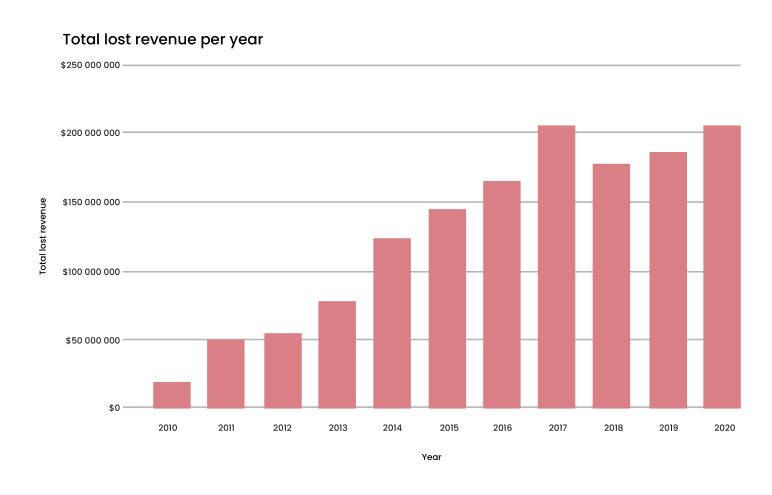
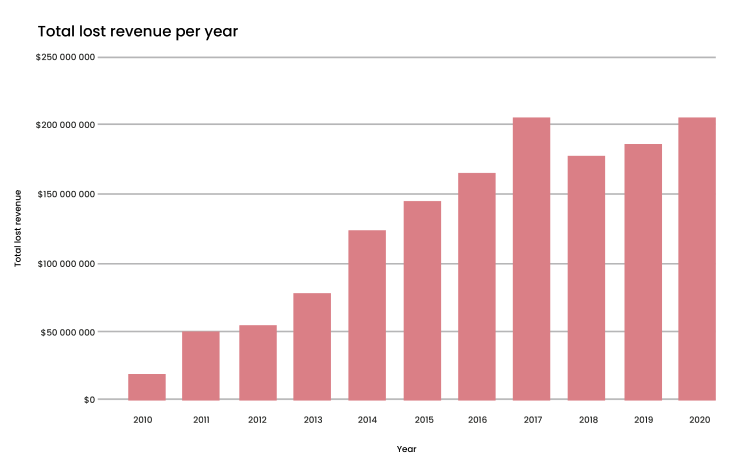
Edit barchart

diff --git a/index.html b/index.html
@@ -162,6 +162,7 @@
             treaty shopping. </p>
           <p>In this graph, you can see the total lost revenue per year. The discovery of gas fields happened in 2010,
             and since that moment you see an increase in the lost revenue per year.</p>
+            <img src="/images/lostRevenueBarchart.png" alt="Lost Revenue Barchart" id="barchart">
         </section>
       </div>
     </div>

diff --git a/styles/style.css b/styles/style.css
@@ -295,18 +295,21 @@ p {
   left: 0;
 }
 
-.page4ver img {
-  object-fit: cover;
-}
-
 .page4ver section {
   position: absolute;
   right: 0em;
   max-width: 37em;
-  margin: 5em 5em 0em 0em;
+  margin: 3em 4em 0em 0em;
 }
 
 .page4ver section p {
+  padding: 1em 0em;
+}
+
+.page4ver #barchart {
+  width: 33em;
+  display: block;
+  margin: auto;
   padding: 1em 0em;
 }
 
